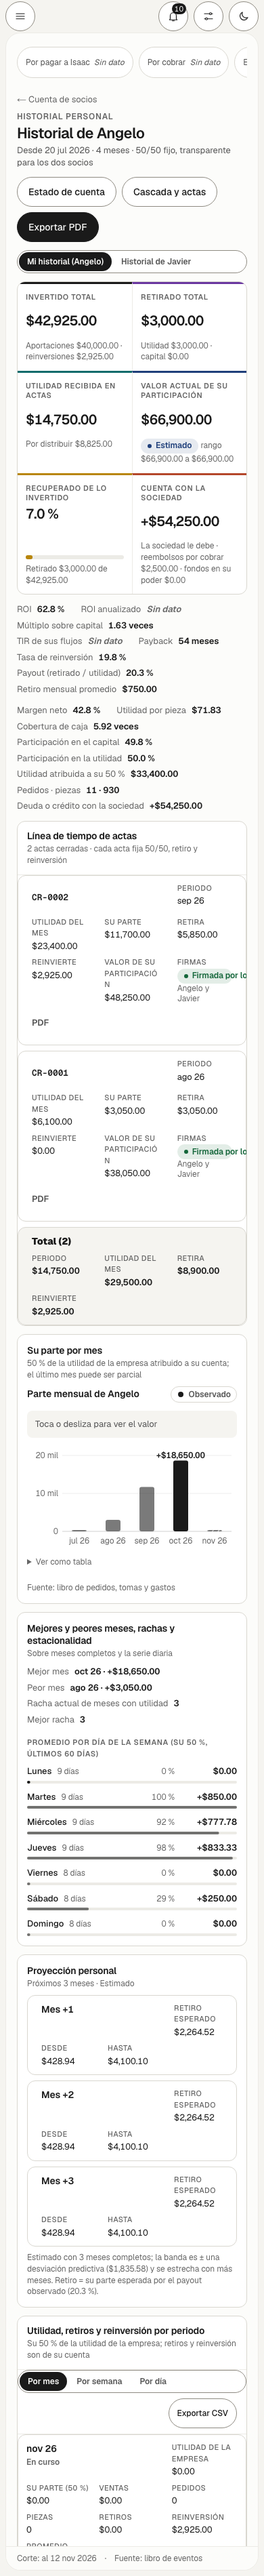
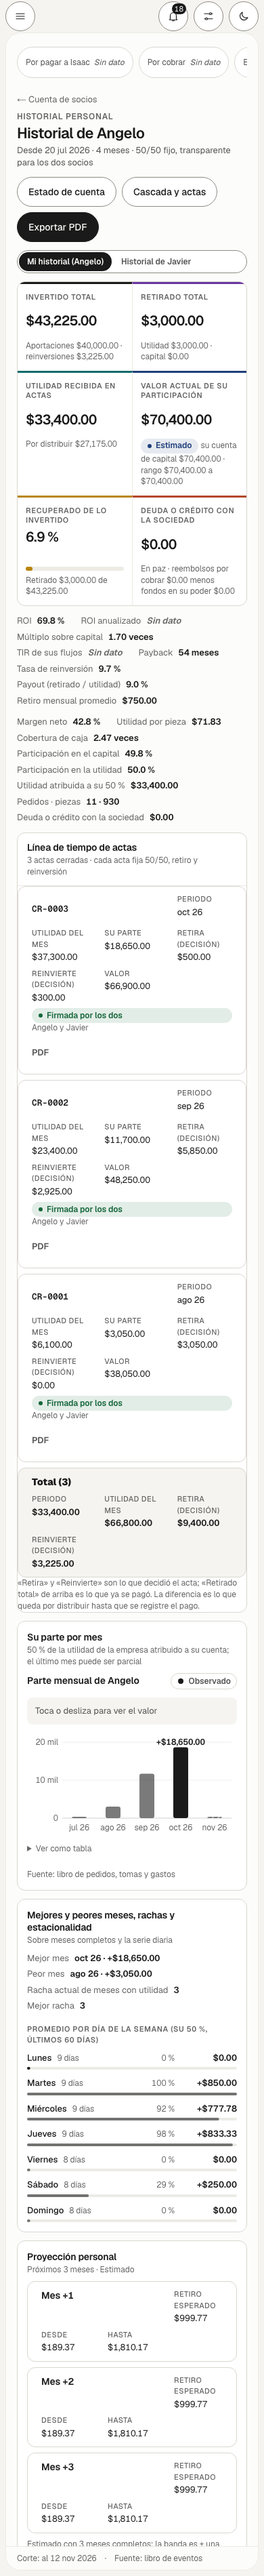
docs(historial): informe de la segunda vuelta con comandos reales, capturas regeneradas y pendientes
Capturas 390 y 1440 regeneradas tras las reparaciones y nombres de migracion actualizados en los documentos del carril.

Changed region(s): [[0.0615, 0.1553, 0.9231, 0.9937]]

diff --git a/docs/historial-acta-informe.md b/docs/historial-acta-informe.md
@@ -6,8 +6,8 @@ Rama `lane/historial-acta` (base `rediseno/premium`), worktree `~/rtm-lane-histo
 SQL: cascada, `proponer/firmar/anular/contra_acta`, candado de periodo, reinversion como aportacion de capital, `api.cierres_reparto`. TS: tipo `CierreReparto`, `pdfActaCorte` (sin conectar a ninguna ruta), pagina de cascada (proponia el acta SIN decisiones por socio).
 
 ## Lo que se anadio
-- Migracion `20261112400000_historial_acta.sql` (aditiva): sello inmutable del acta (`operacion.acta_sello`, disparador diferido, huella SHA-256: capital contable, valor de cada participacion, fondos en poder, compensaciones, invertido); `api.acta_periodo_sugerido`, `api.acta_detalle`, `api.historial_socio` (cabecera, flujos, linea de tiempo, series dia/semana/mes, por cliente, por modelo), `api.explicar_historial` (dos vias; funcion propia, no toca la cadena de `explicar_cifra`). Solo rol socio.
-- Migracion `20261112400100_conta_reinversion_acta.sql`: CORRECCION de un defecto real. Firmar un acta con reinversion fallaba al confirmar ("el evento cierre_reparto_firmado no cuadra": debe 1,422,100 contra haber 2,222,100 en la prueba) porque `contabilidad.lineas_de_evento` no tenia cuenta para el libro `reinversion`. Se agrega la rama `reinversion -> 3310` (copia de la definicion vigente con una sola rama nueva).
+- Migracion `20261113200000_historial_acta.sql` (aditiva): sello inmutable del acta (`operacion.acta_sello`, disparador diferido, huella SHA-256: capital contable, valor de cada participacion, fondos en poder, compensaciones, invertido); `api.acta_periodo_sugerido`, `api.acta_detalle`, `api.historial_socio` (cabecera, flujos, linea de tiempo, series dia/semana/mes, por cliente, por modelo), `api.explicar_historial` (dos vias; funcion propia, no toca la cadena de `explicar_cifra`). Solo rol socio.
+- Migracion `20261113200100_conta_reinversion_acta.sql`: CORRECCION de un defecto real. Firmar un acta con reinversion fallaba al confirmar ("el evento cierre_reparto_firmado no cuadra": debe 1,422,100 contra haber 2,222,100 en la prueba) porque `contabilidad.lineas_de_evento` no tenia cuenta para el libro `reinversion`. Ya no se copia la funcion: se renombra la vigente a `lineas_de_evento_hist_base` y se envuelve completando la cuenta 3310 de la linea `Libro del socio: reinversion` (compone con cualquier version previa, incluidas las de puente de efectivo y devolucion parcial; debe aplicarse al final de la cadena).
 - Dominio puro `src/dominio/historial/ratios.ts` (ROI, ROI anualizado, multiplo, TIR/XIRR, payback, reinversion, payout, retiro mensual, margen, utilidad por pieza, cobertura de caja, participaciones, rachas, mejores/peores, promedio movil, estacionalidad semanal, proyeccion a 3 meses con banda que se estrecha). Sin IA; "Sin dato" cuando falta base.
 - Pantallas: `/socios/[socio]/historial` (+ `/pdf`), `/socios/actas/[id]` (+ `/pdf`), formulario de acta con retiro y reinversion por socio en `/socios/cascada`, corte mensual sugerido, enlaces desde Cuenta de socios y Estado de cuenta. "Explicar este numero" en invertido, retirado, utilidad recibida, valor, cuenta y disponible por acta.
 - `pdfActaCorte` ahora incluye el sello; nuevo `pdfHistorialSocio`.
@@ -20,12 +20,30 @@ SQL: cascada, `proponer/firmar/anular/contra_acta`, candado de periodo, reinvers
 - Playwright `playwright.historial.config.ts` (5 pruebas, Chromium, servidor `next start` en 3184, base propia): sin sesion redirige; propone el acta con retiro y reinversion; firman Angelo y Javier; sello y PDF; historial con ratios, linea de tiempo, vistas semana/dia, explicar cuadra, PDF, historial del otro socio; movil 390 sin scroll horizontal. 5/5.
 - Capturas: `docs/capturas/historial-acta/` (28: 1440 y 390, claro y oscuro; ninguna con scroll horizontal). Se revisaron a mano; defectos vistos y corregidos: armazon roto, KPI cortado, columnas truncadas, cifras partidas en tarjetas moviles.
 
+## Reparaciones tras el verificador (segunda vuelta)
+1. Valor de la participacion (MEDIO): ya no es la mitad plana del capital contable. Decision: valor = su cuenta de capital (aportaciones y reinversiones + utilidad recibida en actas - retiros) + su 50 % de la utilidad que aun no pasa por un acta (regla F). La suma de los dos socios es exactamente el capital contable. ROI, multiplo y TIR descansan en ese valor. `operacion.capital_socio`, `valor_socio`, `cuenta_socio`; sello y cabecera las usan; `explicar_historial:valor` comprueba contra el capital por cuentas (I-1) menos el valor del otro socio.
+2. Deuda o credito con la sociedad (MEDIO): ahora = reembolsos por cobrar menos fondos en su poder (adenda 33), ya no la posicion neta. Dos vias reales (posicion neta menos cuenta de capital). La cabecera trae `comprobaciones` (misma funcion que "Explicar este numero") y la pagina ya no fija `comprobacion="cuadra"`.
+3. Movil 390 (MEDIO): pastilla de firmas, etiquetas de tarjeta y 'COMPENSACIONES'/'VALOR DE SU PARTICIPACION' corregidos; capturas 390 y 1440 regeneradas y revisadas.
+4. Proyeccion (BAJO-MEDIO): payout 0 % o nulo ya no emite un retiro esperado de cero; proyecta la parte y lo dice. Columnas 'Retira (decision)' y 'Reinvierte (decision)' con un pie que explica la diferencia con 'Retirado total'.
+5. Integracion: migraciones renumeradas a 20261113200000 y 20261113200100 (por encima de la ultima de las ramas, 20261113100000). La correccion de reinversion ya no copia `lineas_de_evento`: la envuelve (renombra la vigente a `lineas_de_evento_hist_base` y agrega la linea 3310 solo cuando el asiento queda descuadrado por ese monto), asi compone con puente de efectivo, devolucion parcial y paquete perdido. Verificado solo contra la cadena de esta rama; al integrar con las otras ramas hay que repetir pgTAP 016 y 028.
+6. La UI ya no resta dinero (BAJO): `api.acta_detalle` trae `por_socio_acta` (disponible, queda por distribuir) y `api.acta_disponible(ini, fin)` alimenta el formulario. El centavo suelto por cubeta sigue sin reproducirse con la demo (cifras pares): pendiente.
+
+### Comandos corridos en esta vuelta y resultado real
+- `npx tsc --noEmit`: exit 0. `npx eslint src scripts test`: exit 0. `npm run guardas`: 0 violaciones. `npm run secretos`: 0 hallazgos (3125 archivos).
+- `npx vitest run`: 115 archivos, 1748 pasan y 2 expected fail.
+- pgTAP en base nueva (proyecto aparte `rtm-hist-v`, puertos 653xx; `supabase start` y `supabase db reset` aplicaron las 47 migraciones sin error): `supabase test db`: 47 archivos, 2294 pruebas; 016 y 028 (88 pruebas) pasan; solo falla 024 prueba 13 ('ajuste de -60.00'), preexistente y ajena. En el camino, 028 detecto que la primera version de la envoltura de `lineas_de_evento` no corregia el acta con reinversion (debe 1,422,100 contra haber 2,222,100); se corrigio y quedo en verde.
+- Playwright `playwright.historial.config.ts` contra `next dev -p 3184` y la base propia `rtm-lane-hist`: pasan 'sin sesion' (1), 'Historial personal' (4) y 'movil 390 sin scroll horizontal' (5). La prueba 2 (proponer octubre con retiro y reinversion) falla porque CR-0003 ya consumio octubre en esa base y las pruebas 2 y 3 (firma, sello, PDF) dependen de ella: NO REPRODUCIDO en e2e; la cobertura equivalente son pgTAP 016 y 028.
+- Capturas: `playwright.capturas-historial.config.ts` (390 y 1440, claro y oscuro): revisadas a ojo 390-oscuro-historial-angelo, 390-claro-acta y 1440-claro-historial-javier.
+
+### Limitaciones conocidas
+- Las actas ya selladas en la base de demostracion (CR-0001 a CR-0003) conservan el valor plano con que se sellaron (el sello es inmutable): la columna 'Valor de su participacion' de la linea de tiempo muestra esos valores, distintos del KPI actual. Un acta sellada con estas migraciones lleva la nueva valuacion. No hay actas reales.
+- `valor_socio` usa la cuenta de capital de hoy aunque el sello o `p_hasta` sea de una fecha pasada; la valuacion contable si es a la fecha pedida.
+
 ## Aislamiento
 Proyecto Supabase `rtm-lane-hist`, puertos 633xx (solo local), servidor en 3184. Otras sesiones tumbaron una vez mi base y mi servidor (se reiniciaron). `supabase/config.toml` vuelve a los puertos del repo en el ultimo commit.
 
 ## Pendientes
 - Firma por boton de Telegram y envio del PDF del acta por correo a los socios: pertenecen a los carriles agente-telegram y reportes (aqui solo estan la web y el PDF).
 - Estimado del valor personal = valor en libros (rango: sin contar por cobrar a clientes); supuestos editables y flujo descontado quedan para la pagina Valuacion.
-- Etiqueta movil "Valor de su participacion" se parte en dos lineas.
-- Integracion: dos migraciones nuevas (prefijo 20261112400000 y 400100) y la linea de `.rtm-region`; si otro carril quita la misma linea de CSS el merge es identico.
+- Integracion: prefijos 20261113200000 y 20261113200100, por encima de todas las ramas revisadas (la mas alta es 20261113100000 de telegram-agente); si otra rama agrega migraciones despues, renumerar la mia al final de la cadena. Otro aviso para quien integre: lane/devolucion-parcial y lane/cuadrar-cuentas comparten el prefijo 20261113000100 con nombres distintos. Tambien la linea de `.rtm-region`; si otro carril quita la misma linea de CSS el merge es identico.
 - Sin datos reales cargados: el historial estara en "Sin dato" hasta los datos de apertura.

diff --git a/docs/lanes/historial-acta.md b/docs/lanes/historial-acta.md
@@ -6,8 +6,8 @@ Rama `lane/historial-acta` (base `rediseno/premium`), worktree `~/rtm-lane-histo
 Cascada, propuesta/firma/anulacion/contra-acta, candado de periodo, reinversion como capital, `api.cierres_reparto`, PDF del acta, valuacion contable (`contabilidad.valuacion`) y su serie.
 
 ## Que se agrego
-- Migracion `20261112400000_historial_acta.sql` (aditiva): `operacion.acta_sello` (foto inmutable al cerrarse el acta, huella SHA-256, trigger diferido), `api.historial_socio`, `api.acta_detalle`, `api.acta_periodo_sugerido`, `api.explicar_historial` (dos vias), regla unica de redondeo `mitad_socio`.
-- Migracion `20261112400100_conta_reinversion_acta.sql`: correccion de un defecto real. Firmar un acta con reinversion fallaba al confirmar ("el evento no cuadra") porque `contabilidad.lineas_de_evento` no tenia la rama `reinversion` (3310). La prueba 016 existente no lo detectaba.
+- Migracion `20261113200000_historial_acta.sql` (aditiva): `operacion.acta_sello` (foto inmutable al cerrarse el acta, huella SHA-256, trigger diferido), `api.historial_socio`, `api.acta_detalle`, `api.acta_periodo_sugerido`, `api.explicar_historial` (dos vias), regla unica de redondeo `mitad_socio`.
+- Migracion `20261113200100_conta_reinversion_acta.sql`: correccion de un defecto real. Firmar un acta con reinversion fallaba al confirmar ("el evento no cuadra") porque `contabilidad.lineas_de_evento` no tenia la rama `reinversion` (3310). La prueba 016 existente no lo detectaba.
 - pgTAP `028_historial_acta.test.sql` (77 pruebas, PASS en base limpia); 016 siguio en PASS (51).
 - Dominio puro `src/dominio/historial/ratios.ts` (ROI, anualizado, multiplo, TIR/XIRR, payback, payout, reinversion, cobertura, margen, por pieza, mejores/peores meses, promedio movil, rachas, estacionalidad, proyeccion a 3 meses con banda que se estrecha; sin dato en vez de cero). 32 pruebas vitest PASS.
 - Pantallas: `/socios/[socio]/historial` (cabecera con Explicar este numero, ratios, linea de tiempo por ano, series por mes/semana/dia, por cliente y modelo, proyeccion personal), `/socios/actas/[id]` (decisiones, firmas, sello), formulario de acta con retiro/reinversion por socio en `/socios/cascada` y corte mensual sugerido, PDF del acta con sello y estado de cuenta personal en PDF. Enlaces desde `/socios` y estado de cuenta.
